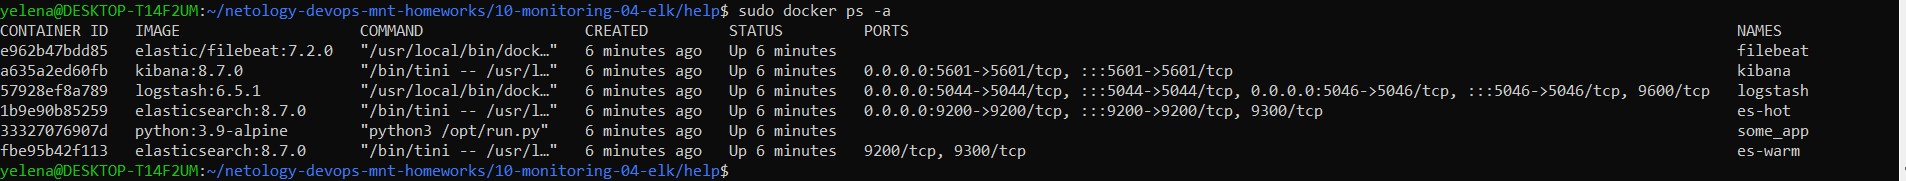
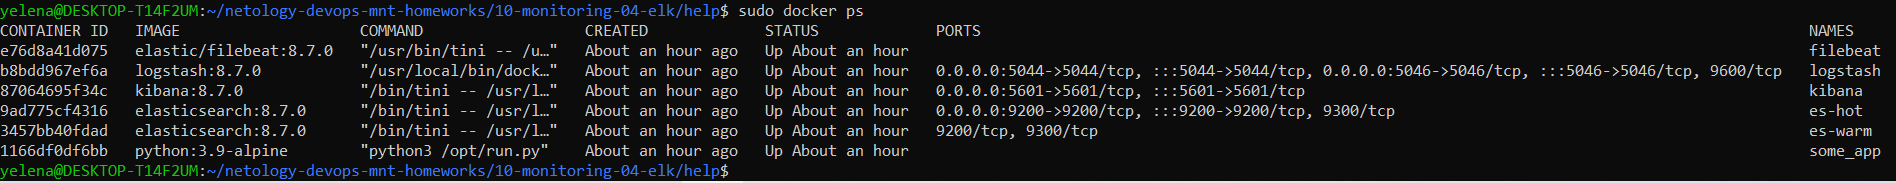
10-monitoring-04-elk tasks added

Changed region(s): [[0.0, 0.0, 1.0, 1.0], [0.0, 0.0, 0.529, 0.221], [0.1867, 0.1381, 0.2489, 0.221]]

diff --git a/10-monitoring-04-elk/README.md b/10-monitoring-04-elk/README.md
@@ -51,15 +51,22 @@ Filebeat следует сконфигурировать для отправки
 ## Задание 2
 
 Перейдите в меню [создания index-patterns  в kibana](http://localhost:5601/app/management/kibana/indexPatterns/create) и создайте несколько index-patterns из имеющихся.
-
-![indexPatterns](./task02_0.png)
+#### Ответ
+![indexPatterns01](./task02_0.png)
+![indexPatterns02](./task02_1.png)
+![indexPatterns03](./task02_2.png)
 
 Перейдите в меню просмотра логов в kibana (Discover) и самостоятельно изучите, как отображаются логи и как производить поиск по логам.
+#### Ответ
+![Log search](./task03_1.png)
 
 В манифесте директории help также приведенно dummy-приложение, которое генерирует рандомные события в stdout-контейнера.
 Эти логи должны порождать индекс logstash-* в elasticsearch. Если этого индекса нет — воспользуйтесь советами и источниками из раздела «Дополнительные ссылки» этого задания.
+#### Ответ
+![logstash-* index](./task04_1.png)
 
-### Комментарии/вопрос
+### Комментарии/вопрос (решено)
+#### решение: были ошибки в конфигурации pipline logstash.conf
 Контейнеры были подняты по инструкции первого задания. Но нет логов от logstash. В логах контейнера logstash такие ошибки:
 
 <details>
